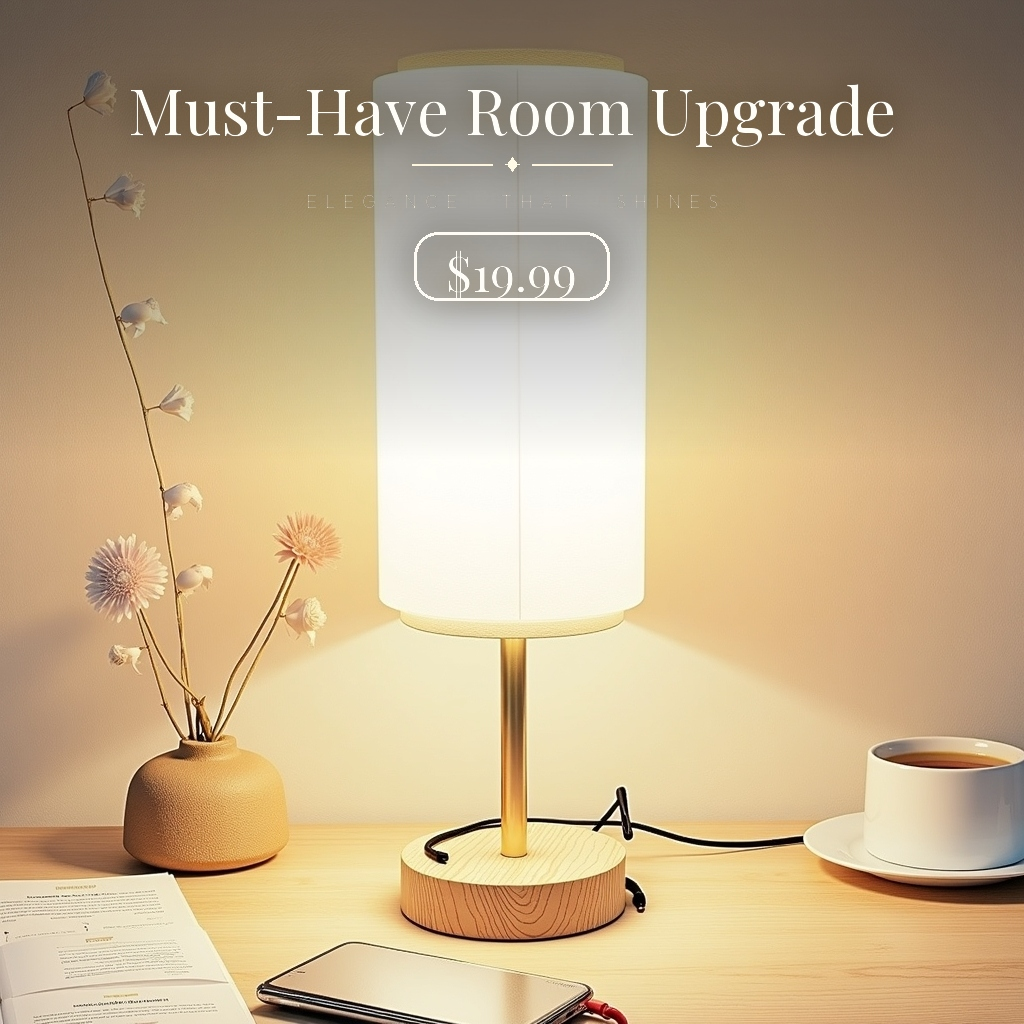
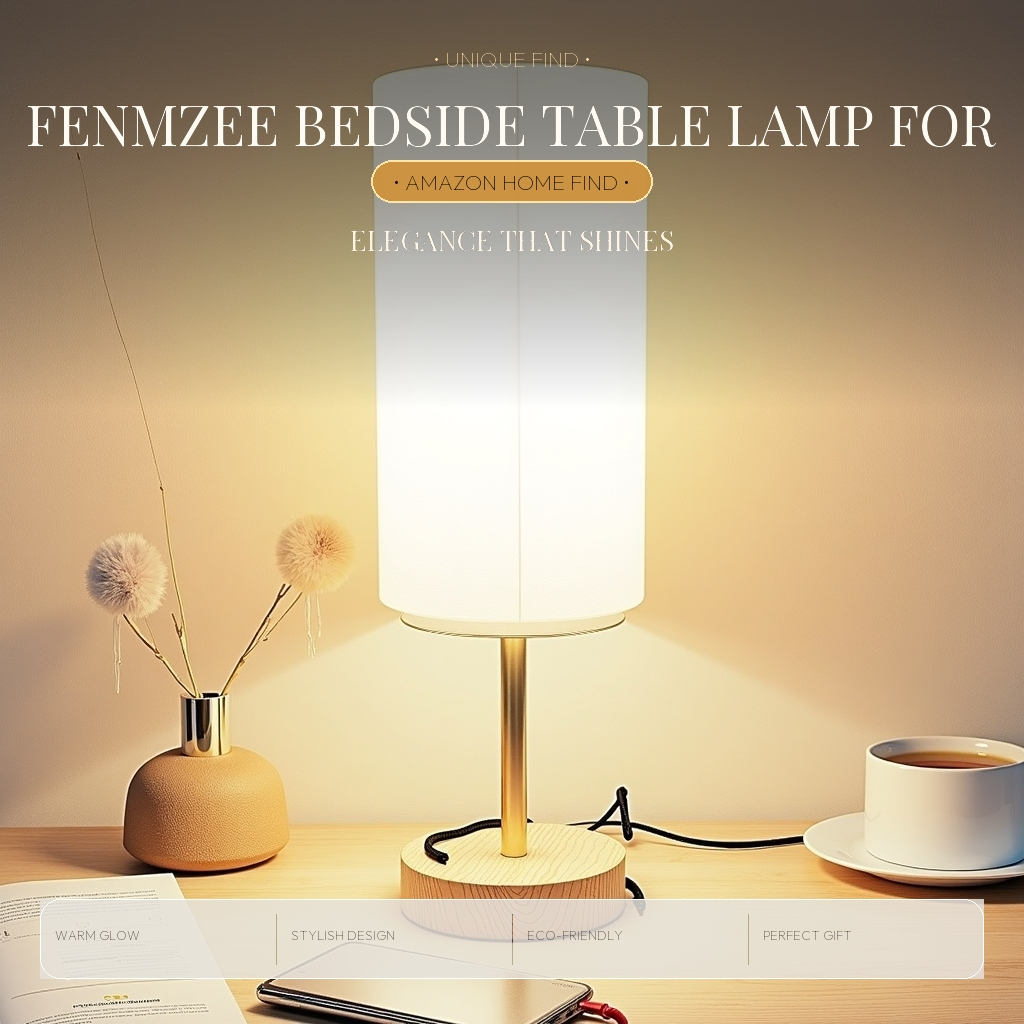
Update B0BZXNSW5K with product-specific headline and bird_lamp reference layout style

diff --git a/bridge_B0BZXNSW5K.html b/bridge_B0BZXNSW5K.html
@@ -4,8 +4,8 @@
 <head>
     <meta charset="UTF-8">
     <meta name="viewport" content="width=device-width, initial-scale=1.0">
-    <title>Cozy Fenmzee Bedside Table Lamp for Bedroom - Dimmable  🕯 | Cozy Room Finds</title>
-    <meta name="description" content="Check out the best lamps for rooms and cozy desk decor. Find Fenmzee Bedside Table Lamp for Bedroom - Dimmable Touch, USB A+C, AC Outlet | 3-Way Dimmable, LED Bulb Included, Fabric Lampshade, Wood-Grain Metal Base, 14" Small Nightstand Lamp for Desk, Living Room for the ultimate aesthetic room setup!">
+    <title>Cozy Fenmzee Bedside Table Lamp for 🕯 | Cozy Room Finds</title>
+    <meta name="description" content="Check out the best lamps for rooms and cozy desk decor. Find Fenmzee Bedside Table Lamp for for the ultimate aesthetic room setup!">
     <link href="https://fonts.googleapis.com/css2?family=Outfit:wght@300;400;600;700&family=Playfair+Display:ital,wght@0,600;1,400&display=swap" rel="stylesheet">
     <style>
         :root {
@@ -136,10 +136,10 @@
 <body>
     <div class="container">
         <span class="tag">✨ Pinterest Cozy Pick</span>
-        <img class="hero-img" src="focus_product_B0BZXNSW5K_hook.jpg?v=1785089533" alt="Fenmzee Bedside Table Lamp for Bedroom - Dimmable Touch, USB A+C, AC Outlet | 3-Way Dimmable, LED Bulb Included, Fabric Lampshade, Wood-Grain Metal Base, 14" Small Nightstand Lamp for Desk, Living Room">
-        <h1>Cozy Fenmzee Bedside Table Lamp for Bedroom - Dimmable  🕯</h1>
+        <img class="hero-img" src="focus_product_B0BZXNSW5K_hook.jpg?v=1785089691" alt="Fenmzee Bedside Table Lamp for Bedroom - Dimmable Touch, USB A+C, AC Outlet | 3-Way Dimmable, LED Bulb Included, Fabric Lampshade, Wood-Grain Metal Base, 14" Small Nightstand Lamp for Desk, Living Room">
+        <h1>Cozy Fenmzee Bedside Table Lamp for 🕯</h1>
         <div class="price">$19.99</div>
-        <p class="description">Check out the best lamps for rooms and cozy desk decor. Find Fenmzee Bedside Table Lamp for Bedroom - Dimmable Touch, USB A+C, AC Outlet | 3-Way Dimmable, LED Bulb Included, Fabric Lampshade, Wood-Grain Metal Base, 14" Small Nightstand Lamp for Desk, Living Room for the ultimate aesthetic room setup!</p>
+        <p class="description">Check out the best lamps for rooms and cozy desk decor. Find Fenmzee Bedside Table Lamp for for the ultimate aesthetic room setup!</p>
 
         <div class="features">
             <h3>Key Aesthetic Highlights</h3>

diff --git a/modules/seo_copywriter.py b/modules/seo_copywriter.py
@@ -23,7 +23,9 @@ def generate_pin_seo_data(product_title: str, price: str = "", category: str = "
 
     Generate Pinterest SEO metadata for this product. Return JSON with the following keys:
     - "pin_title": A catchy, high-CTR Pinterest title (under 80 chars, with relevant emoji).
-    - "image_hook": A 3-6 word short punchy phrase for image text overlay (e.g. "Best Desk Light Under $30 🌙").
+    - "image_hook": A 2-4 word short punchy headline for the image overlay (e.g. "Retro Mushroom Lamp", "Cozy Touch Bird Light").
+    - "subtitle_hook": A 3-5 word uppercase product feature tagline (e.g. "3-WAY DIMMABLE TOUCH CONTROL", "RECHARGEABLE BEDSIDE GLOW", "MID-CENTURY AMBIENCE").
+    - "badge_hook": A 2-3 word badge / accent phrase (e.g. "MUST-HAVE FIND", "AMAZON HOME PICK", "UNIQUE ROOM UPGRADE").
     - "description": A 200-300 character SEO-rich Pinterest description with high-volume search phrases naturally included (e.g. "best lamps for rooms", "cozy desk setup", "aesthetic bedroom decor", "budget room finds").
     - "suggested_board": Recommended Pinterest Board Name (e.g. "Cozy Room Decor Ideas").
     - "keywords": A list of 5 key search terms.
@@ -50,20 +52,30 @@ def generate_pin_seo_data(product_title: str, price: str = "", category: str = "
                     "response_mime_type": "application/json"
                 }
             )
-            time.sleep(2)
+            time.sleep(1)
             data = json.loads(response.text.strip())
             import re
-            if "image_hook" in data:
-                data["image_hook"] = re.sub(r'[^\x00-\x7F]+', '', data["image_hook"]).strip()
-            return data
+            for k in ["image_hook", "subtitle_hook", "badge_hook"]:
+                if k in data and isinstance(data[k], str):
+                    data[k] = re.sub(r'[^\x00-\x7F]+', '', data[k]).strip()
+            if data.get("image_hook") and len(data["image_hook"]) > 3:
+                return data
         except Exception as e:
-            time.sleep(2)
+            time.sleep(1)
             continue
 
+    # Smart fallback derived directly from actual product title
+    clean_name = product_title.split("-")[0].split(",")[0].split("|")[0].strip()
+    if len(clean_name) > 35:
+        clean_name = clean_name[:35].rsplit(" ", 1)[0]
+
     return {
-        "pin_title": f"Cozy {product_title[:50]} 🕯",
-        "image_hook": "Must-Have Room Upgrade 🌙",
-        "description": f"Check out the best lamps for rooms and cozy desk decor. Find {product_title} for the ultimate aesthetic room setup!",
+        "pin_title": f"Cozy {clean_name} 🕯",
+        "image_hook": clean_name.title(),
+        "subtitle_hook": "ELEGANCE THAT SHINES",
+        "badge_hook": "AMAZON HOME FIND",
+        "description": f"Check out the best lamps for rooms and cozy desk decor. Find {clean_name} for the ultimate aesthetic room setup!",
         "suggested_board": "Cozy Room Decor Ideas",
         "keywords": ["cozy room decor", "aesthetic desk setup", "best lamps for rooms", "room upgrade", "budget decor"]
     }
+

diff --git a/modules/image_generator.py b/modules/image_generator.py
@@ -284,7 +284,9 @@ def add_hook_text_overlay(
 
     all_styles = ['glowing_neon', 'cozy_lamp', 'bird_lamp', 'script_productivity', 'smart_gadgets']
     if style == "auto" or style not in all_styles:
-        style = "glowing_neon"
+        style_idx = abs(hash(Path(image_path).stem)) % len(all_styles)
+        style = all_styles[style_idx]
+        print(f"[Image Gen] Dynamic style='auto' selected reference style: '{style}' for {Path(image_path).name}")
     img = Image.open(image_path).convert("RGBA")
     width, height = img.size
 

diff --git a/process_new_product.py b/process_new_product.py
@@ -74,7 +74,7 @@ final_image_path = add_hook_text_overlay(
     subtitle=seo_data.get('subtitle_hook', 'ELEGANCE THAT SHINES'),
     badge_text=seo_data.get('badge_hook', 'AMAZON TOP FIND'),
     price_str=prod['price'],
-    style="glowing_neon"
+    style="auto"
 )
 print(f" -> Final Pin Graphic: {final_image_path}")
 
